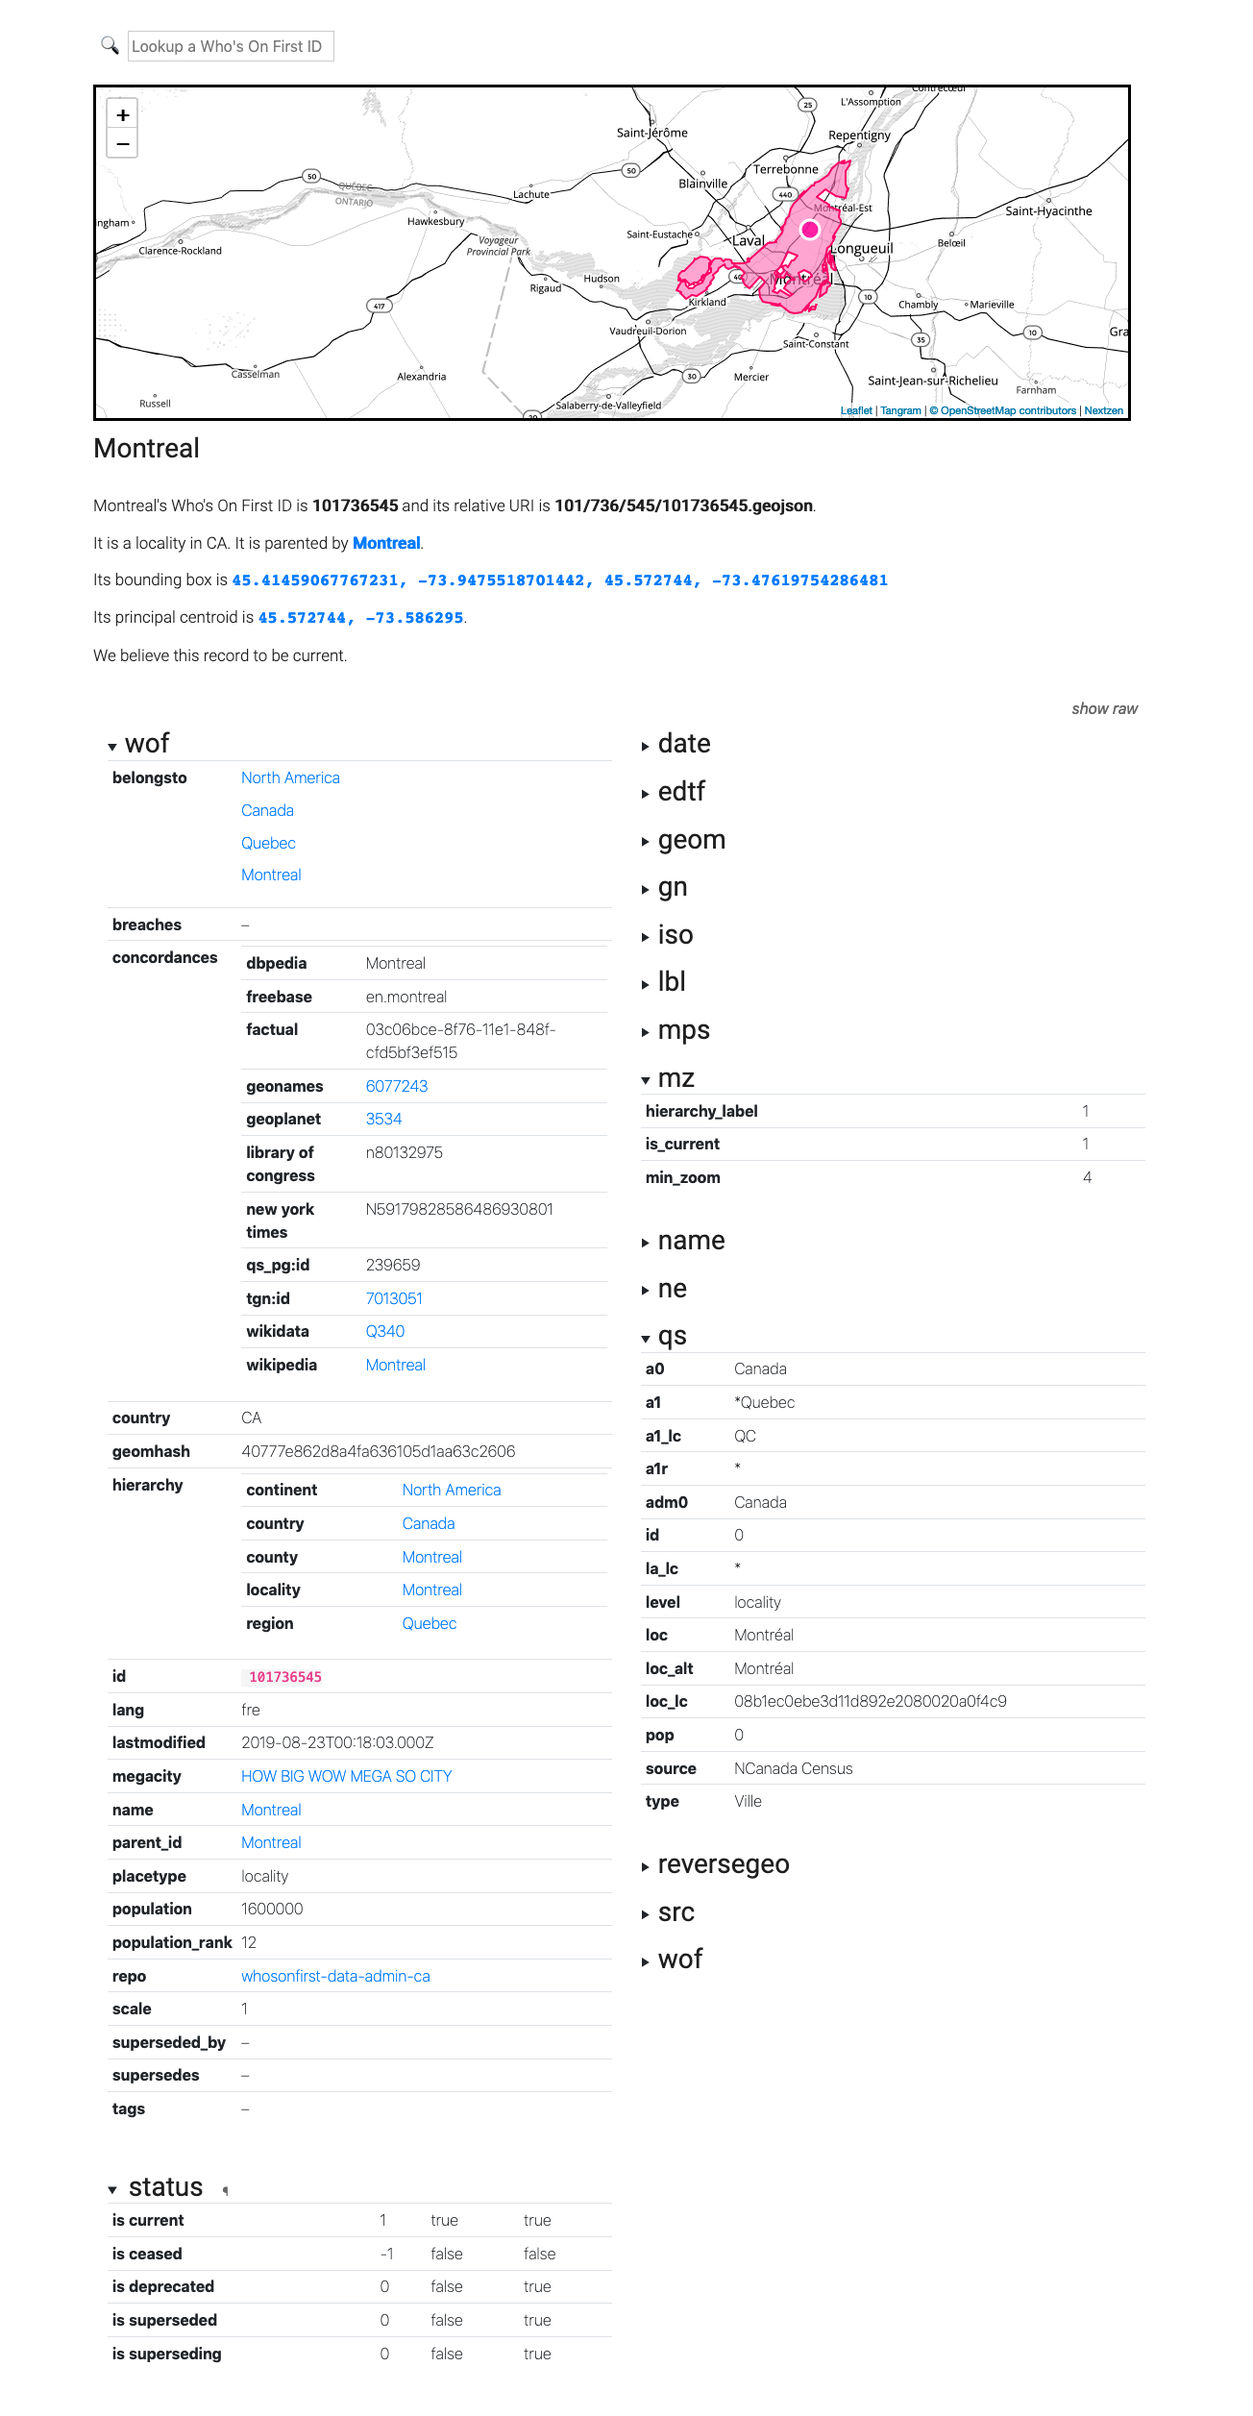
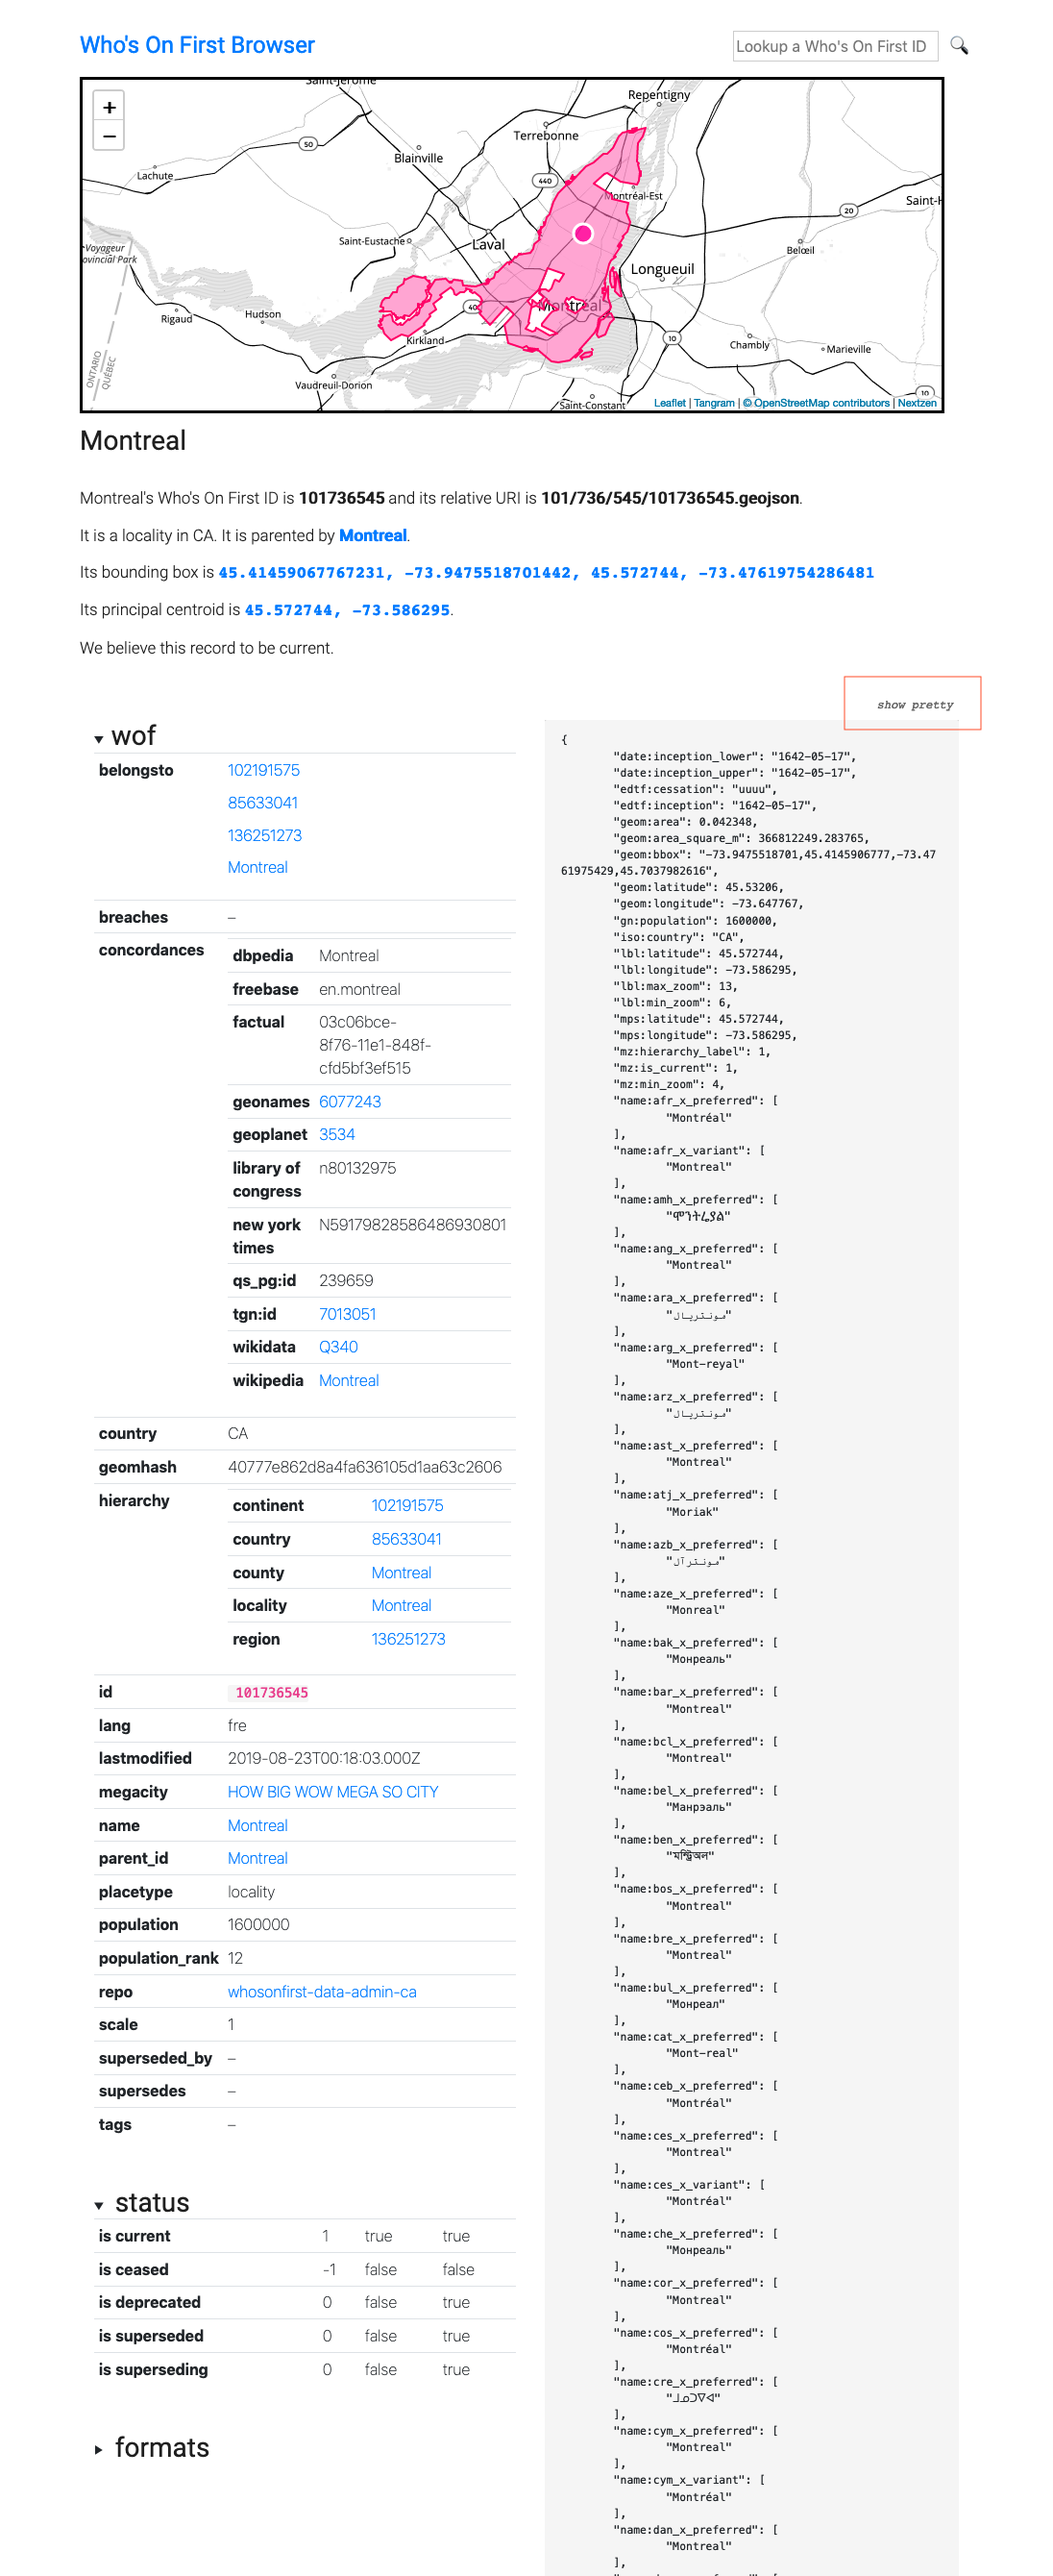
more docs

diff --git a/README.md b/README.md
@@ -108,6 +108,12 @@ $> bin/browser -enable-all -nextzen-api-key ${NEXTZEN_APIKEY}
 2019/12/14 18:22:16 Listening on http://localhost:8080
 ```
 
+Then if you visited `http://localhost:8080/id/101736545` in your web browser you would see this:
+
+![](docs/images/wof-browser-montreal-props.png)
+
+By default Who's On First (WOF) properties are rendered as nested (and collapsed) trees but there is are handy `show raw` and `show pretty` toggles for viewing the raw WOF GeoJSON data.
+
 ## Output formats
 
 The following output formats are available.
